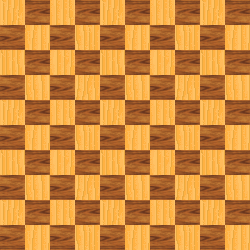
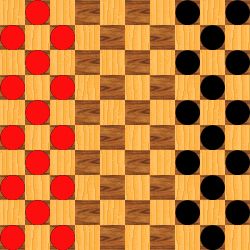
changes

diff --git a/createboard.js b/createboard.js
@@ -24,22 +24,33 @@ var testgame = new Game("test1","test2");
 var board = new jimp.read("Images/DraughtsBoard.png");
 var red = new jimp.read("Images/RedDraughtsPeice.png");
 var black = new jimp.read("Images/BlackDraughtsPeice.png");
+var blackKing = new jimp.read("Images/BlackDraughtsPeiceKing.png");
+var redKing = new jimp.read("Images/RedDraughtsPeiceKing.png");
 
 
-Promise.all([board,red,black]).then(function(i){
+
+Promise.all([board,red,black,redKing,blackKing]).then(function(i){
 	var tmpBoard = i[0];
 	
-	for(var y = 0; y <= 9; y++) {
-		for(var x = 0;x <= 9;x++) {
-			if(testgame.board[x,y] == 'r') {
-				tmpBoard.composite(i[1],x*25,y*25);
+	
+	for(var x = 0; x <= 9; x++) {
+		for(var y = 0;y <= 9;y++) {
+			if(testgame.board[x][y] == 'r') {
+				tmpBoard.composite(i[1],y*25,x*25);
 			}
-			if(testgame.board[x,y] == 'b') {
-				tmpBoard.composite(i[2],x*25,y*25);
+			if(testgame.board[x][y] == 'b') {
+				tmpBoard.composite(i[2],y*25,x*25);
 			}
+			if(testgame.board[x][y] == 't') {
+				tmpBoard.composite(i[3],y*25,x*25);
+			}
+			if(testgame.board[x][y] == 'n') {
+				tmpBoard.composite(i[4],y*25,x*25);
+			}
+			
 			
 		}
 	}
 	
-	tmpBoard.write("newBoard.jpg");
+	tmpBoard.write("newBoard2.jpg");
 });
